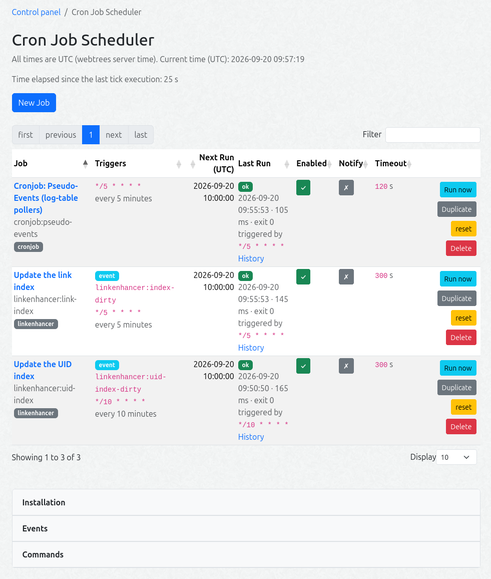
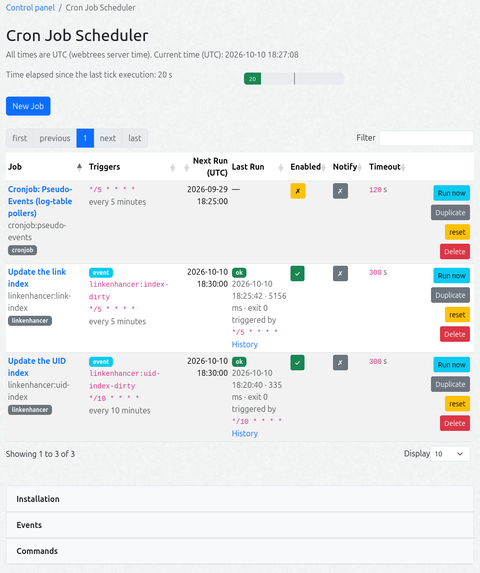
documentation

diff --git a/README.md b/README.md
@@ -40,6 +40,8 @@ It was originally developed as a support module for [LinkEnhancer](https://codeb
 
 ### Trigger installation (once)
 
+![Installation](resources/img/installation.png)
+
 > [!IMPORTANT]
 > **PHP CLI binary:** the admin page's *Installation* accordion shows which
 > PHP CLI interpreter is currently resolved (badge: *auto-detected* /
@@ -165,7 +167,7 @@ filled in (example with placeholder paths). Save it as `wt-cronjob-tick.xml`
 (UTF-8) and run `schtasks /Create /F /XML wt-cronjob-tick.xml` once in an
 elevated prompt (or use Task Scheduler → Actions → *Import Task…*):
 
-> [!INFO]
+> [!NOTE]
 > Config example was not yet tested!
 
 <details>
@@ -847,6 +849,8 @@ the next poll as well — pick the mechanism whose latency/precision fits the jo
 (route events are near-instant and precise per object, and carry `change_pending`;
 log pollers lag ~5 min but also catch changes made outside the web UI).
 
+![Events](resources/img/events.png)
+
 ## Event catalog
 
 The admin page (Events section) and the job form's event-name suggestions are fed by
@@ -887,6 +891,8 @@ Each entry carries its type (`module` / `core`), its source, a description (tran
 key, translated at render time) and the available parameters (structured: name,
 optional, default, description). In the job form, entering a command that matches an
 announced command shows its parameters as a hint under the field.
+
+![Commands](resources/img/commands.png)
 
 <a name="notification"></a>
 ## Failure notification
